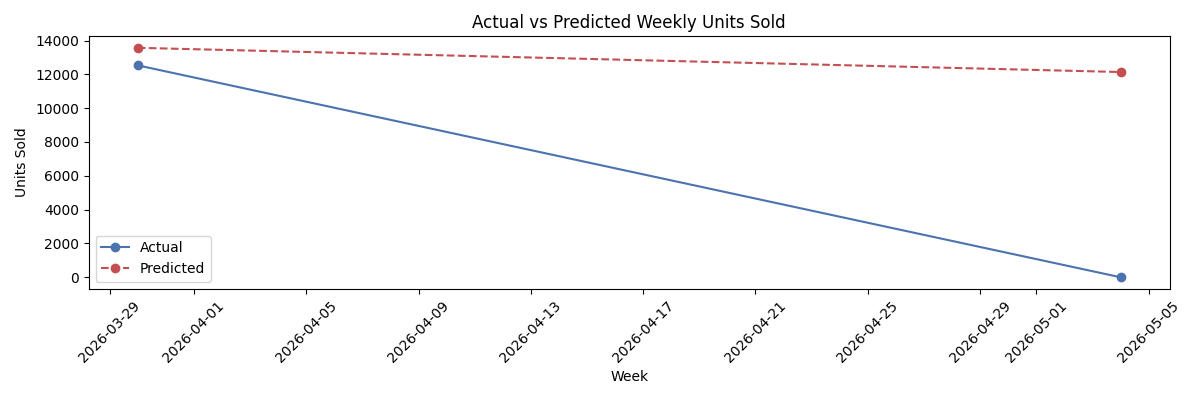
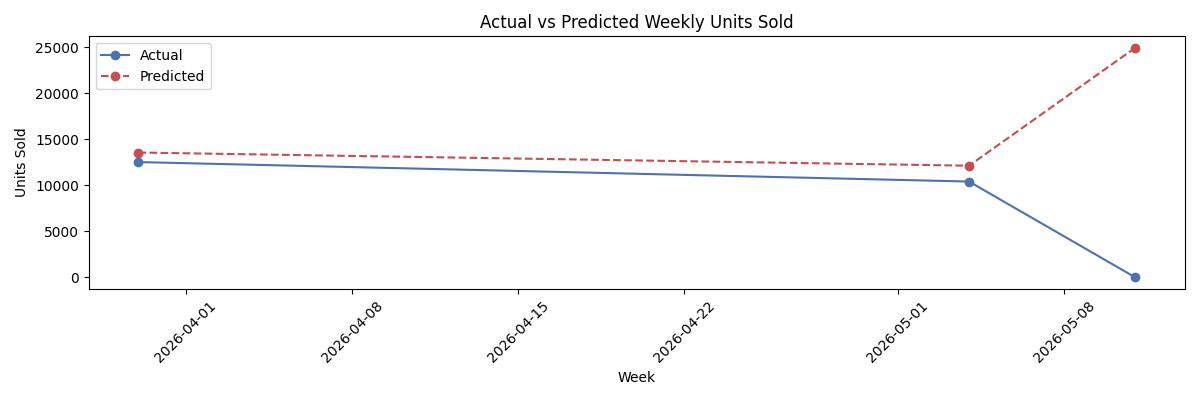
Made forecsat for Week commencing 11th May, 2026

diff --git a/WEEKLY_OPERATIONS.md b/WEEKLY_OPERATIONS.md
@@ -1,0 +1,126 @@
+# Weekly Operations Guide — SunnyBest Forecasting System
+> Follow this every Saturday without skipping steps.
+
+---
+
+## Every Saturday — Step by Step
+
+### PART 1 — Generate This Week's Forecast
+> Do this first thing on Saturday morning, before the week's sales are uploaded.
+
+**Step 1 — Refresh data from Supabase**
+```bash
+PYTHONPATH=. python3 src/data/make_weekly_dataset.py
+PYTHONPATH=. python3 src/data/make_weekly_dataset_v2.py
+PYTHONPATH=. python3 src/data/make_weekly_dataset_v3_calendar.py
+```
+
+**Step 2 — Generate the forecast**
+```bash
+PYTHONPATH=. python3 src/forecasting/generate_weekly_forecast.py
+```
+Check the output — it should print the forecast week date and confirm 840 rows saved.
+
+**Step 3 — Visualise the forecast**
+- Open `notebooks/15_weekly_forecast_analysis.ipynb`
+- Run all cells
+- Review: which stores are predicted to sell the most? Any unusual numbers?
+
+---
+
+### PART 2 — Evaluate Last Week's Forecast
+> Do this after uploading last week's actual sales to Supabase.
+
+**Step 4 — Upload last week's actuals to Supabase**
+- Run your actuals upload script
+- Confirm data is in `core.fact_sales`
+
+**Step 5 — Run the model monitor**
+```bash
+PYTHONPATH=. python3 src/monitoring/model_monitor.py
+```
+This compares last week's forecast against real sales and saves results to `data/outputs/`.
+
+**Step 6 — Review monitoring results**
+- Open `notebooks/14_model_monitoring.ipynb`
+- Run all cells
+- Check the WAPE for last week
+
+---
+
+### PART 3 — Decision Point
+
+```
+Is WAPE below 20%?
+│
+├── YES → Model is healthy. You're done for this Saturday. ✅
+│
+└── NO  → Investigate:
+          - Which stores/products had the worst errors?
+          - Was there a promotion or unusual event that week?
+          - Is it a one-off spike or a trend over multiple weeks?
+          
+          If WAPE is consistently bad over 2+ weeks → Retrain (see below)
+```
+
+---
+
+## Retraining (When WAPE Exceeds 20%)
+
+**Step 1 — Refresh all data**
+```bash
+PYTHONPATH=. python3 src/data/make_weekly_dataset.py
+PYTHONPATH=. python3 src/data/make_weekly_dataset_v2.py
+PYTHONPATH=. python3 src/data/make_weekly_dataset_v3_calendar.py
+```
+
+**Step 2 — Update the cutoff date in the training script**
+- Open `src/models/train_weekly_model_v3_calendar.py`
+- Update line 84 — set train cutoff to ~6 weeks before today, test from there to now
+
+**Step 3 — Retrain**
+```bash
+PYTHONPATH=. python3 src/models/train_weekly_model_v3_calendar.py
+```
+Note down the MAE and WAPE printed at the end.
+
+**Step 4 — Update model registry**
+- Open `models/model_registry.csv`
+- Add new row: `weekly_model_v3_calendar_YYYY_MM,models/weekly_model_retrained_v3_calendar.pkl,best,<MAE>,<WAPE>`
+- Change old best model status from `best` → `archived`
+- Only ONE model should have status = `best` at a time
+
+**Step 5 — Go back to Part 1** and generate a fresh forecast with the new model
+
+---
+
+## Quick Reference — Key Scripts
+
+| What | Command |
+|------|---------|
+| Refresh data | `PYTHONPATH=. python3 src/data/make_weekly_dataset_v3_calendar.py` |
+| Generate forecast | `PYTHONPATH=. python3 src/forecasting/generate_weekly_forecast.py` |
+| Run monitoring | `PYTHONPATH=. python3 src/monitoring/model_monitor.py` |
+| Retrain v3 | `PYTHONPATH=. python3 src/models/train_weekly_model_v3_calendar.py` |
+| Retrain v4 | `PYTHONPATH=. python3 src/models/train_weekly_model_v4_promotions.py` |
+
+## Quick Reference — Key Files
+
+| What | Location |
+|------|---------|
+| Forecasts | `data/outputs/weekly_forecasts.csv` |
+| Monitoring results | `data/outputs/weekly_model_monitoring.csv` |
+| Monitoring summary | `data/outputs/weekly_monitoring_summary.csv` |
+| Model registry | `models/model_registry.csv` |
+| Forecast visualisation | `notebooks/15_weekly_forecast_analysis.ipynb` |
+| Monitoring review | `notebooks/14_model_monitoring.ipynb` |
+
+---
+
+## Rules to Remember
+
+- **Never change the cutoff date to get a better WAPE** — it is a business decision, not a tuning knob
+- **Only one model can be `best`** in the registry at a time
+- **Name retrained models** with the date: `weekly_model_v3_calendar_YYYY_MM`
+- **Run all scripts from the project root** with `PYTHONPATH=.`
+- **Don't skip Saturday uploads** — if actuals are missing, notebook 14 cannot evaluate the forecast

diff --git a/SESSION_NOTES.md b/SESSION_NOTES.md
@@ -3,7 +3,41 @@
 
 ---
 
-## 2026-05-26 23:54 (STOPPED HERE — resume from this point)
+## 2026-05-27 (STOPPED HERE — resume from this point)
+
+### What I worked on
+- Updated PROJECT_PLAN.md — full state-of-the-art project plan with all workstreams, scripts, models, operations
+- Created WEEKLY_OPERATIONS.md — step-by-step Saturday guide to follow every week
+- Retrained v4 model — `weekly_model_v4_promotions_2026_05` (MAE 2.12, WAPE 14.77%) — v3 still best
+- Updated model registry with date-based naming convention (YYYY_MM)
+- Fixed model registry path issue — training script overwrites same .pkl file, registry must point to actual filename
+- Successfully ran `generate_weekly_forecast.py` — generated forecast for **week commencing 2026-05-11**
+- Understood the full forecasting loop end to end
+
+### Key findings / decisions
+- `generate_weekly_forecast.py` pulls data directly from Supabase (not processed CSVs) — always gets freshest lag features
+- Processed CSVs are only needed for retraining, not for forecasting
+- Supabase data ends at 2026-05-04 → forecast generated for 2026-05-11 (last known week + 7 days)
+- Training script saves model to hardcoded filename — update `MODEL_PATH` in script before retraining to avoid overwriting old models
+- Naming convention for models: `weekly_model_v3_calendar_YYYY_MM`
+
+### EXACT NEXT STEPS (in order)
+
+1. **Run model monitoring** — compare May 11 forecast against actuals:
+   ```bash
+   PYTHONPATH=. python3 src/monitoring/model_monitor.py
+   ```
+2. **Open notebook 14** — review WAPE for week of May 11, check which stores/products had worst errors
+3. **Check WAPE decision:**
+   - Below 20% → model is healthy, continue
+   - Above 20% → investigate, consider retraining
+4. **Upload actuals for May 18 and May 25** to Supabase (these weeks have passed)
+5. **Re-run forecast script** — will generate forecast for the next available week
+6. **Continue with remaining project work** — see PROJECT_PLAN.md "Remaining Work" section
+
+---
+
+## 2026-05-26 23:54
 
 ### What I worked on
 - Understood the full retraining process end to end
